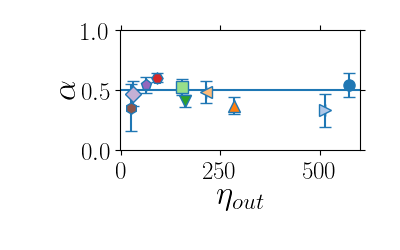
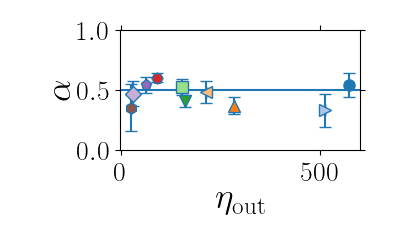
latexfont

diff --git a/angle_powerlaw.py b/angle_powerlaw.py
@@ -6,7 +6,10 @@ from matplotlib.widgets import Slider
 from error_boxes import make_error_boxes as meb
 from scipy import optimize
 from matplotlib import rc
+params= {'text.latex.preamble' : [r'\usepackage{amsmath}']}
+plt.rcParams.update(params)
 rc('text',usetex=True)
+rc('font',family='serif')
 #data92 = np.genfromtxt('../2017_6_18_more/old_calibration/data.csv', delimiter=',',names=True)
 #data65 = np.genfromtxt('../2017_7_25_65cP/data.csv',delimiter=',',names=True)
 #data214 = np.genfromtxt('../2017_8_29_214cP/data.csv',delimiter=',',names=True)
@@ -143,7 +146,7 @@ def plotfunction(expo1,expo2,c):
     handles, labels = ax.get_legend_handles_labels()
     handles = [h[0] for h in handles]
     #ax.legend(handles[::-1], labels[::-1], ncol=2,loc=3,fontsize=14,labelspacing=0,bbox_to_anchor=(-0.02,-0.02),borderpad=0,edgecolor='none',columnspacing=0,handletextpad=0,framealpha=0)
-    ax.legend(handles[::-1], labels[::-1], ncol=2,loc=3,fontsize=14,labelspacing=0,bbox_to_anchor=(-0.02,-0.02),borderpad=0,edgecolor='none',columnspacing=0,handletextpad=0,framealpha=0)
+    ax.legend(handles[::-1], labels[::-1], ncol=2,loc=3,fontsize=17,labelspacing=0,bbox_to_anchor=(-0.02,-0.02),borderpad=0,edgecolor='none',columnspacing=0,handletextpad=0,framealpha=0)
     
 #xexpo1slider = plt.axes([0.25,0.08,0.65,0.03])
 #xexpo2slider = plt.axes([0.25,0.05,0.65,0.03])
@@ -192,11 +195,11 @@ print 'd = %.4f+/-%.4f' %(d,derr)
 #expo2slider.on_changed(update)
 #cslider.on_changed(update)
 
-plt.tick_params(labelsize=18,right=True, top=True)
-ax.yaxis.set_label_coords(-0.12,0.5)
-ax.xaxis.set_label_coords(0.5,-0.11)
-ax.set_xlabel(r'$log(\eta_{out})$',fontsize=24,labelpad=0)
-ax.set_ylabel(r'$log(U_{max})$',fontsize=24,labelpad=0)
+plt.tick_params(labelsize=20,right=True, top=True)
+ax.yaxis.set_label_coords(-0.13,0.5)
+ax.xaxis.set_label_coords(0.5,-0.12)
+ax.set_xlabel(r'$\text{log}(\eta_{\text{out}})$',fontsize=26,labelpad=0)
+ax.set_ylabel(r'$\text{log}(U_{\text{max}})$',fontsize=26,labelpad=0)
 ax.set_yticks([1.5,2.0,2.5])
 #ax.set_ylim(1,3)
 #ax.set_xlim(1,3)

diff --git a/angle.py b/angle.py
@@ -7,7 +7,10 @@ from error_boxes import make_error_boxes as meb
 from scipy import optimize
 from matplotlib.ticker import FormatStrFormatter
 from matplotlib import rc
-rc('text', usetex=True)
+params= {'text.latex.preamble' : [r'\usepackage{amsmath}']}
+plt.rcParams.update(params)
+rc('text',usetex=True)
+rc('font',family='serif')
 #data92 = np.genfromtxt('../2017_6_18_more/old_calibration/data.csv', delimiter=',',names=True)
 #data65 = np.genfromtxt('../2017_7_25_65cP/data.csv',delimiter=',',names=True)
 #data214 = np.genfromtxt('../2017_8_29_214cP/data.csv',delimiter=',',names=True)
@@ -197,14 +200,15 @@ print 'd = %.4f+/-%.4f' %(d,derr)
 #expo2slider.on_changed(update)
 #cslider.on_changed(update)
 
-plt.tick_params(labelsize=18,right=True,top=True)
+plt.tick_params(labelsize=20,right=True,top=True)
 
 ax.yaxis.set_label_coords(-0.08,0.5)
-ax.set_xlabel(r'$U (mm/s)$',fontsize=24,labelpad=0)
-ax.set_ylabel(r'$\cos(\phi)^{-1}$',fontsize=24,labelpad=0)
+ax.xaxis.set_label_coords(0.5,-0.12)
+ax.set_xlabel(r'$U \text{(mm/s)}$',fontsize=26,labelpad=0)
+ax.set_ylabel(r'$\cos(\phi)^{-1}$',fontsize=26,labelpad=0)
 #ax.yaxis.set_label_coords(-0.165,0.5)
 ax.axhline(y=1.32,ls=(0,(5,5)))
-ax.annotate('$1.32$',xy=(947,1.32),xytext=(700,0.6),arrowprops=dict(facecolor='black',width=2,headwidth=8),fontsize=18)
+ax.annotate('$1.32$',xy=(947,1.32),xytext=(700,0.6),arrowprops=dict(facecolor='black',width=2,headwidth=8),fontsize=20)
 #ax.set_yticks([0,1,1.32,2,3,4,5])
 #ax.yaxis.set_major_formatter(FormatStrFormatter('%.1f'))
 plt.show() 

diff --git a/collapse2.py b/collapse2.py
@@ -6,7 +6,10 @@ import matplotlib.pyplot as plt
 from leastsq import leastsq_weighted
 from leastsq import chi2test 
 from matplotlib import rc
+params= {'text.latex.preamble' : [r'\usepackage{amsmath}']}
+plt.rcParams.update(params)
 rc('text',usetex=True)
+rc('font',family='serif')
 #data92 = np.genfromtxt('../2017_6_18_more/old_calibration/data.csv', delimiter=',',names=True)
 #data65 = np.genfromtxt('../2017_7_25_65cP/data.csv',delimiter=',',names=True)
 #data214 = np.genfromtxt('../2017_8_29_214cP/data.csv',delimiter=',',names=True)
@@ -183,12 +186,12 @@ print 'f = %.4f+/-%.4f' %(f,sigmaf)
 ax.plot(np.arange(0,2,0.1),19.6*np.arange(0,2,0.1))
 
 ax.xaxis.set_label_coords(0.5,-0.12)
-ax.set_xlabel(r'$\sqrt{\frac{\eta_{in}}{\eta_{out}}}\sqrt{\frac{\eta_{in}U}{\Delta \rho g}}$',fontsize=23,labelpad=0)
-ax.yaxis.set_label_coords(-0.1,0.5)
-ax.set_ylabel(r'$H_{thin}(\mu m)$',fontsize=24,labelpad=0)
+ax.set_xlabel(r'$\sqrt{\frac{\eta_{\text{in}}}{\eta_{\text{out}}}}\sqrt{\frac{\eta_{\text{in}}U}{\Delta \rho g}}$',fontsize=25,labelpad=0)
+ax.yaxis.set_label_coords(-0.12,0.5)
+ax.set_ylabel(r'$H_{\text{thin}}(\mu \text{m})$',fontsize=26,labelpad=0)
 ax.set_yticks(np.arange(0,25,5))
 ax.set_xticks(np.arange(0,1.2,0.2))
-plt.tick_params(labelsize=18,right=True,top=True)
+plt.tick_params(labelsize=20,right=True,top=True)
 #plt.axis('equal')
 ax.set_xlim(0,20./19.6)
 ax.set_ylim(0,20)

diff --git a/plotheight_interp_whole_1d_crosssection.py b/plotheight_interp_whole_1d_crosssection.py
@@ -12,7 +12,10 @@ import os
 from matplotlib.ticker import FormatStrFormatter
 from progressbar import progressbar_tty as ptty
 from matplotlib import rc
+params= {'text.latex.preamble' : [r'\usepackage{amsmath}']}
+plt.rcParams.update(params)
 rc('text',usetex=True)
+rc('font',family='serif')
 
 data_img = cv2.imread('sample4.tif',0)
 data_img = data_img.astype('float64') 
@@ -59,7 +62,7 @@ def surface_polynomial(size, coeff,(zoomfactory,zoomfactorx)):
     zz = poly(x[None,:],y[:,None])
     return zz
 
-fig,ax = plt.subplots(figsize=(7,3))
+fig,ax = plt.subplots(figsize=(7,3.3))
 plt.subplots_adjust(bottom=0.22,left=0.2)
 #ax.set_aspect(aspect='equal')
 #ax.set_zlim(1.5*floor,-0.5*floor)
@@ -401,10 +404,10 @@ for slicing in range(300,2800,500):
     #ax.plot(xs=xxxnew,zs=f(xxxnew),ys=len(xxxnew)*[slicing],zdir='z',color="C0")
 """
 
-plt.tick_params(labelsize=18,right=True,top=True)
-ax.set_xlabel(r'$z(mm)$',fontsize=24,labelpad=0)
-ax.yaxis.set_label_coords(-0.08,0.5)
-ax.set_ylabel(r'$H(\mu m)$',fontsize=24,labelpad=0)
+plt.tick_params(labelsize=20,right=True,top=True)
+ax.set_xlabel(r'$z \text{(mm)}$',fontsize=26,labelpad=0)
+ax.yaxis.set_label_coords(-0.09,0.5)
+ax.set_ylabel(r'$H (\mu\text{m})$',fontsize=26,labelpad=0)
 ax.set_yticks([0,30,60,90])
 ax.set_ylim(0,90)
 plt.show()

diff --git a/thinpart_powerlaw.py b/thinpart_powerlaw.py
@@ -7,7 +7,10 @@ from leastsq import leastsq_weighted
 from leastsq import chi2test 
 from matplotlib.ticker import FormatStrFormatter
 from matplotlib import rc
+params= {'text.latex.preamble' : [r'\usepackage{amsmath}']}
+plt.rcParams.update(params)
 rc('text',usetex=True)
+rc('font',family='serif')
 #data92 = np.genfromtxt('../2017_6_18_more/old_calibration/data.csv', delimiter=',',names=True)
 #data65 = np.genfromtxt('../2017_7_25_65cP/data.csv',delimiter=',',names=True)
 #data214 = np.genfromtxt('../2017_8_29_214cP/data.csv',delimiter=',',names=True)
@@ -212,10 +215,11 @@ print 'f = %.4f+/-%.4f' %(f,sigmaf)
 #ax3.set_ylabel(r'$\alpha$',fontsize=18)
 #ax3.axhspan(bmean-berrfinal,bmean+berrfinal,alpha =0.5)
 
-plt.tick_params(labelsize=18,right=True,top=True)
-ax.set_xlabel(r'$log(U)$',fontsize=24,labelpad=0)
-ax.yaxis.set_label_coords(-0.08,0.5)
-ax.set_ylabel(r'$log(H_{thin})$',fontsize=24,labelpad=0)
+plt.tick_params(labelsize=20,right=True,top=True)
+ax.xaxis.set_label_coords(0.5,-0.1)
+ax.yaxis.set_label_coords(-0.1,0.5)
+ax.set_xlabel(r'$\log(U)$',fontsize=26,labelpad=0)
+ax.set_ylabel(r'$\log(H_{\text{thin}})$',fontsize=26,labelpad=0)
 #ax.yaxis.set_major_formatter(FormatStrFormatter('%.1f'))
 ax.set_xlim(-1.4,0.2)
 #ax.set_ylim(-6,-4.7)

diff --git a/thinpart_powerlaw_alpha.py b/thinpart_powerlaw_alpha.py
@@ -6,7 +6,10 @@ import matplotlib.pyplot as plt
 from leastsq import leastsq_weighted
 from leastsq import chi2test 
 from matplotlib import rc
+params= {'text.latex.preamble' : [r'\usepackage{amsmath}']}
+plt.rcParams.update(params)
 rc('text',usetex=True)
+rc('font',family='serif')
 #data92 = np.genfromtxt('../2017_6_18_more/old_calibration/data.csv', delimiter=',',names=True)
 #data65 = np.genfromtxt('../2017_7_25_65cP/data.csv',delimiter=',',names=True)
 #data214 = np.genfromtxt('../2017_8_29_214cP/data.csv',delimiter=',',names=True)
@@ -201,12 +204,12 @@ print 'f = %.4f+/-%.4f' %(f,sigmaf)
 #ax3.axhline(y = 0.667,ls='--')
 ax3.axhline(y = 0.5,ls='-')
 ax3.set_yticks([0,0.5,1])
-ax3.yaxis.set_label_coords(-0.16,0.5)
-ax3.set_xlabel(r'$\eta_{out}$',fontsize=24,labelpad=0)
-ax3.set_ylabel(r'$\alpha$',fontsize=24,labelpad=0)
+ax3.yaxis.set_label_coords(-0.18,0.5)
+ax3.set_xlabel(r'$\eta_{\text{out}}$',fontsize=26,labelpad=0)
+ax3.set_ylabel(r'$\alpha$',fontsize=26,labelpad=0)
 ax3.set_ylim(0,1)
 #ax3.annotate(r'$2/3$',xy=(0,0.667),xytext=(70,0.83),arrowprops=dict(facecolor='black',width=2,headwidth=8),fontsize=18)
 
-plt.tick_params(labelsize=18,right=True,top=True)
+plt.tick_params(labelsize=20,right=True,top=True)
 plt.show()
 

diff --git a/thickpart.py b/thickpart.py
@@ -5,7 +5,10 @@ import matplotlib.pyplot as plt
 from matplotlib.widgets import Slider
 from error_boxes import make_error_boxes as meb
 from matplotlib import rc
+params= {'text.latex.preamble' : [r'\usepackage{amsmath}']}
+plt.rcParams.update(params)
 rc('text',usetex=True)
+rc('font',family='serif')
 #data92 = np.genfromtxt('../2017_6_18_more/old_calibration/data.csv', delimiter=',',names=True)
 #data65 = np.genfromtxt('../2017_7_25_65cP/data.csv',delimiter=',',names=True)
 #data214 = np.genfromtxt('../2017_8_29_214cP/data.csv',delimiter=',',names=True)
@@ -133,13 +136,14 @@ plotfunction(1/2,-1/4,0.5)
 #expo1slider.on_changed(update)
 #expo2slider.on_changed(update)
 #cslider.on_changed(update)
-plt.tick_params(labelsize=18,top=True,right=True)
+plt.tick_params(labelsize=20,top=True,right=True)
 
 ax.set_xlim(0,750)
 ax.set_ylim(0,180)
 ax.yaxis.set_label_coords(-0.15,0.5)
-ax.set_xlabel(r'$U (mm/s)$',fontsize=24,labelpad=0)
-ax.set_ylabel(r'$H_{max}(\mu m)$',fontsize=24,labelpad=0)
+ax.xaxis.set_label_coords(0.5,-0.13)
+ax.set_xlabel(r'$U \text{(mm/s)}$',fontsize=26,labelpad=0)
+ax.set_ylabel(r'$H_{\text{max}}(\mu\text{m})$',fontsize=26,labelpad=0)
 ax.set_yticks([0,50,100,150])
 plt.show()
 

diff --git a/thinpart_powerlaw_A.py b/thinpart_powerlaw_A.py
@@ -6,7 +6,10 @@ import matplotlib.pyplot as plt
 from leastsq import leastsq_weighted
 from leastsq import chi2test 
 from matplotlib import rc
+params= {'text.latex.preamble' : [r'\usepackage{amsmath}']}
+plt.rcParams.update(params)
 rc('text',usetex=True)
+rc('font',family='serif')
 #data92 = np.genfromtxt('../2017_6_18_more/old_calibration/data.csv', delimiter=',',names=True)
 #data65 = np.genfromtxt('../2017_7_25_65cP/data.csv',delimiter=',',names=True)
 #data214 = np.genfromtxt('../2017_8_29_214cP/data.csv',delimiter=',',names=True)
@@ -175,12 +178,12 @@ ax4.plot(log10mu, log10e+f*log10mu,'C0')
 #ax3.axhspan(bmean-berrfinal,bmean+berrfinal,alpha =0.5)
 
 ax4.xaxis.set_label_coords(0.5,-0.32)
-ax4.set_xlabel(r'$log(\eta_{out})$',fontsize=24,labelpad=0)
+ax4.set_xlabel(r'$\log(\eta_{\text{out}})$',fontsize=26,labelpad=0)
 ax4.yaxis.set_label_coords(-0.16,0.5)
-ax4.set_ylabel(r'$log(A)$',fontsize=24,labelpad=0)
+ax4.set_ylabel(r'$\log(A)$',fontsize=26,labelpad=0)
 ax4.yaxis.set_label_coords(-0.37,0.52)
 ax4.set_xticks([1.5,2.5])
 ax4.set_yticks([-5.5,-4.5])
-plt.tick_params(labelsize=18,right=True,top=True)
+plt.tick_params(labelsize=20,right=True,top=True)
 plt.show()
 

diff --git a/width.py b/width.py
@@ -5,7 +5,10 @@ import matplotlib.pyplot as plt
 from matplotlib.widgets import Slider
 from error_boxes import make_error_boxes as meb
 from matplotlib import rc
+params= {'text.latex.preamble' : [r'\usepackage{amsmath}']}
+plt.rcParams.update(params)
 rc('text',usetex=True)
+rc('font',family='serif')
 data92 = np.genfromtxt('data_92.csv', delimiter=',',names=True)
 data65 = np.genfromtxt('data_65.csv',delimiter=',',names=True)
 data214 = np.genfromtxt('data_214.csv',delimiter=',',names=True)
@@ -131,13 +134,13 @@ plotfunction(0,0,23)
 #expo1slider.on_changed(update)
 #expo2slider.on_changed(update)
 #cslider.on_changed(update)
-plt.tick_params(labelsize=18,right=True, top=True)
+plt.tick_params(labelsize=20,right=True, top=True)
 
 #ax.set_xlim(0,950)
 ax.set_ylim(0,8)
 ax.yaxis.set_label_coords(-0.08,0.5)
-ax.set_xlabel('$U (mm/s)$',fontsize=24,labelpad=0)
-ax.set_ylabel(r'$W (mm)$',fontsize=24,labelpad=0)
+ax.set_xlabel(r'$U \text{(mm/s)}$',fontsize=26,labelpad=0)
+ax.set_ylabel(r'$W \text{(mm)}$',fontsize=26,labelpad=0)
 plt.show()
 
 

diff --git a/height.py b/height.py
@@ -5,7 +5,10 @@ import matplotlib.pyplot as plt
 from matplotlib.widgets import Slider
 from error_boxes import make_error_boxes as meb
 from matplotlib import rc
+params= {'text.latex.preamble' : [r'\usepackage{amsmath}']}
+plt.rcParams.update(params)
 rc('text',usetex=True)
+rc('font',family='serif')
 data92 = np.genfromtxt('data_92.csv', delimiter=',',names=True)
 data65 = np.genfromtxt('data_65.csv',delimiter=',',names=True)
 data214 = np.genfromtxt('data_214.csv',delimiter=',',names=True)
@@ -142,10 +145,10 @@ plotfunction(0,0,0)
 #expo1slider.on_changed(update)
 #expo2slider.on_changed(update)
 #cslider.on_changed(update)
-plt.tick_params(labelsize=18,right=True,top=True)
+plt.tick_params(labelsize=20,right=True,top=True)
 ax.yaxis.set_label_coords(-0.08,0.5)
-ax.set_xlabel(r'$U (mm/s)$',fontsize=24,labelpad=0)
-ax.set_ylabel(r'$L (mm)$',fontsize=24,labelpad=0)
+ax.set_xlabel(r'$U (\text{mm/s})$',fontsize=26,labelpad=0)
+ax.set_ylabel(r'$L (\text{mm})$',fontsize=26,labelpad=0)
 ax.set_ylim(0,8)
 plt.show() 
 
